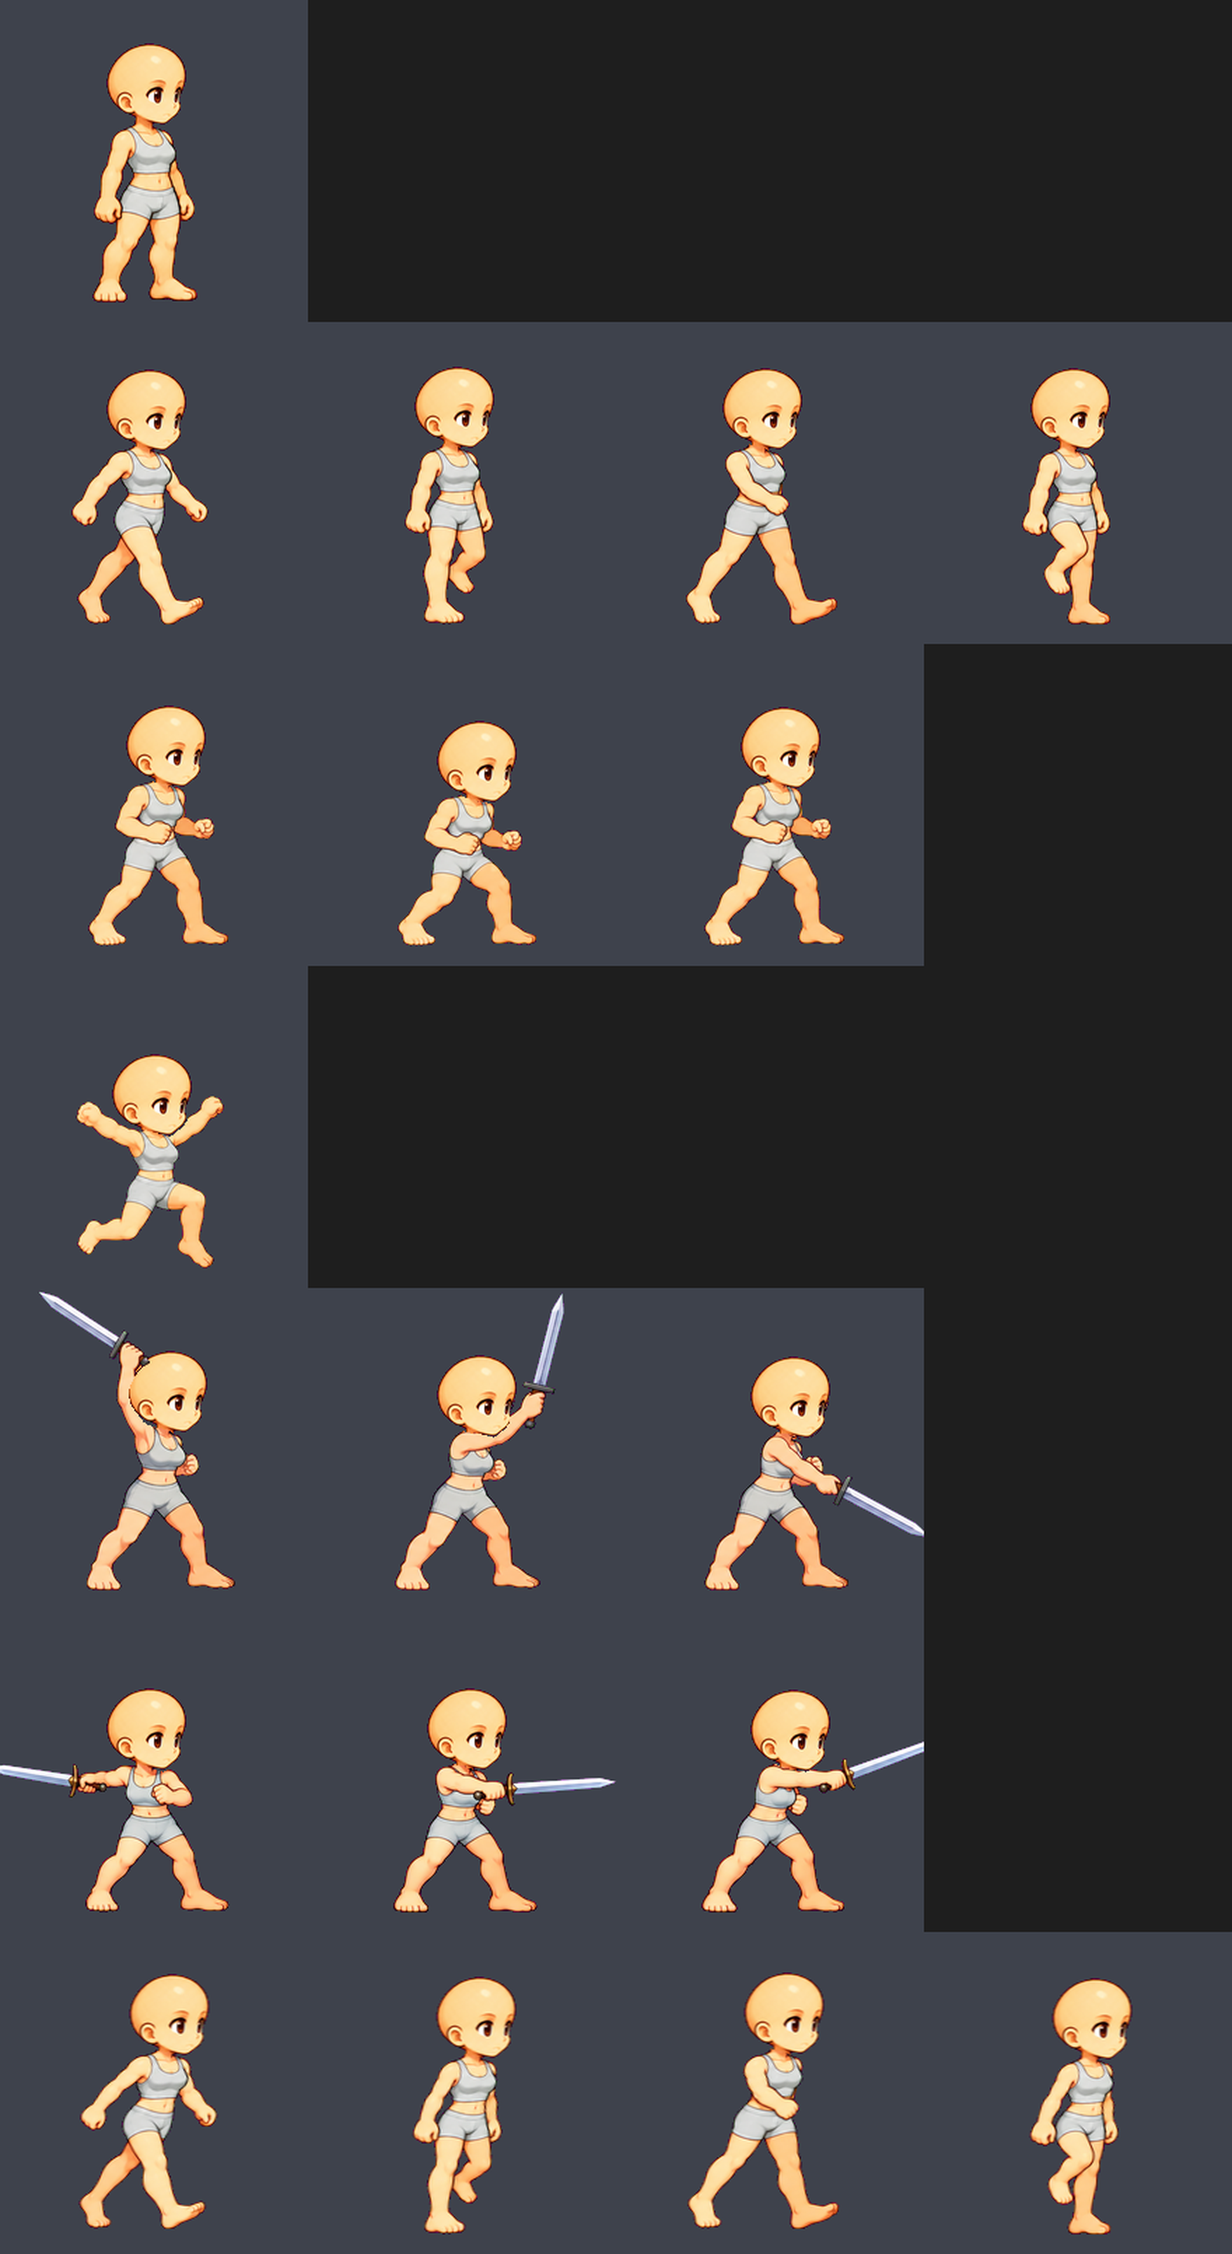
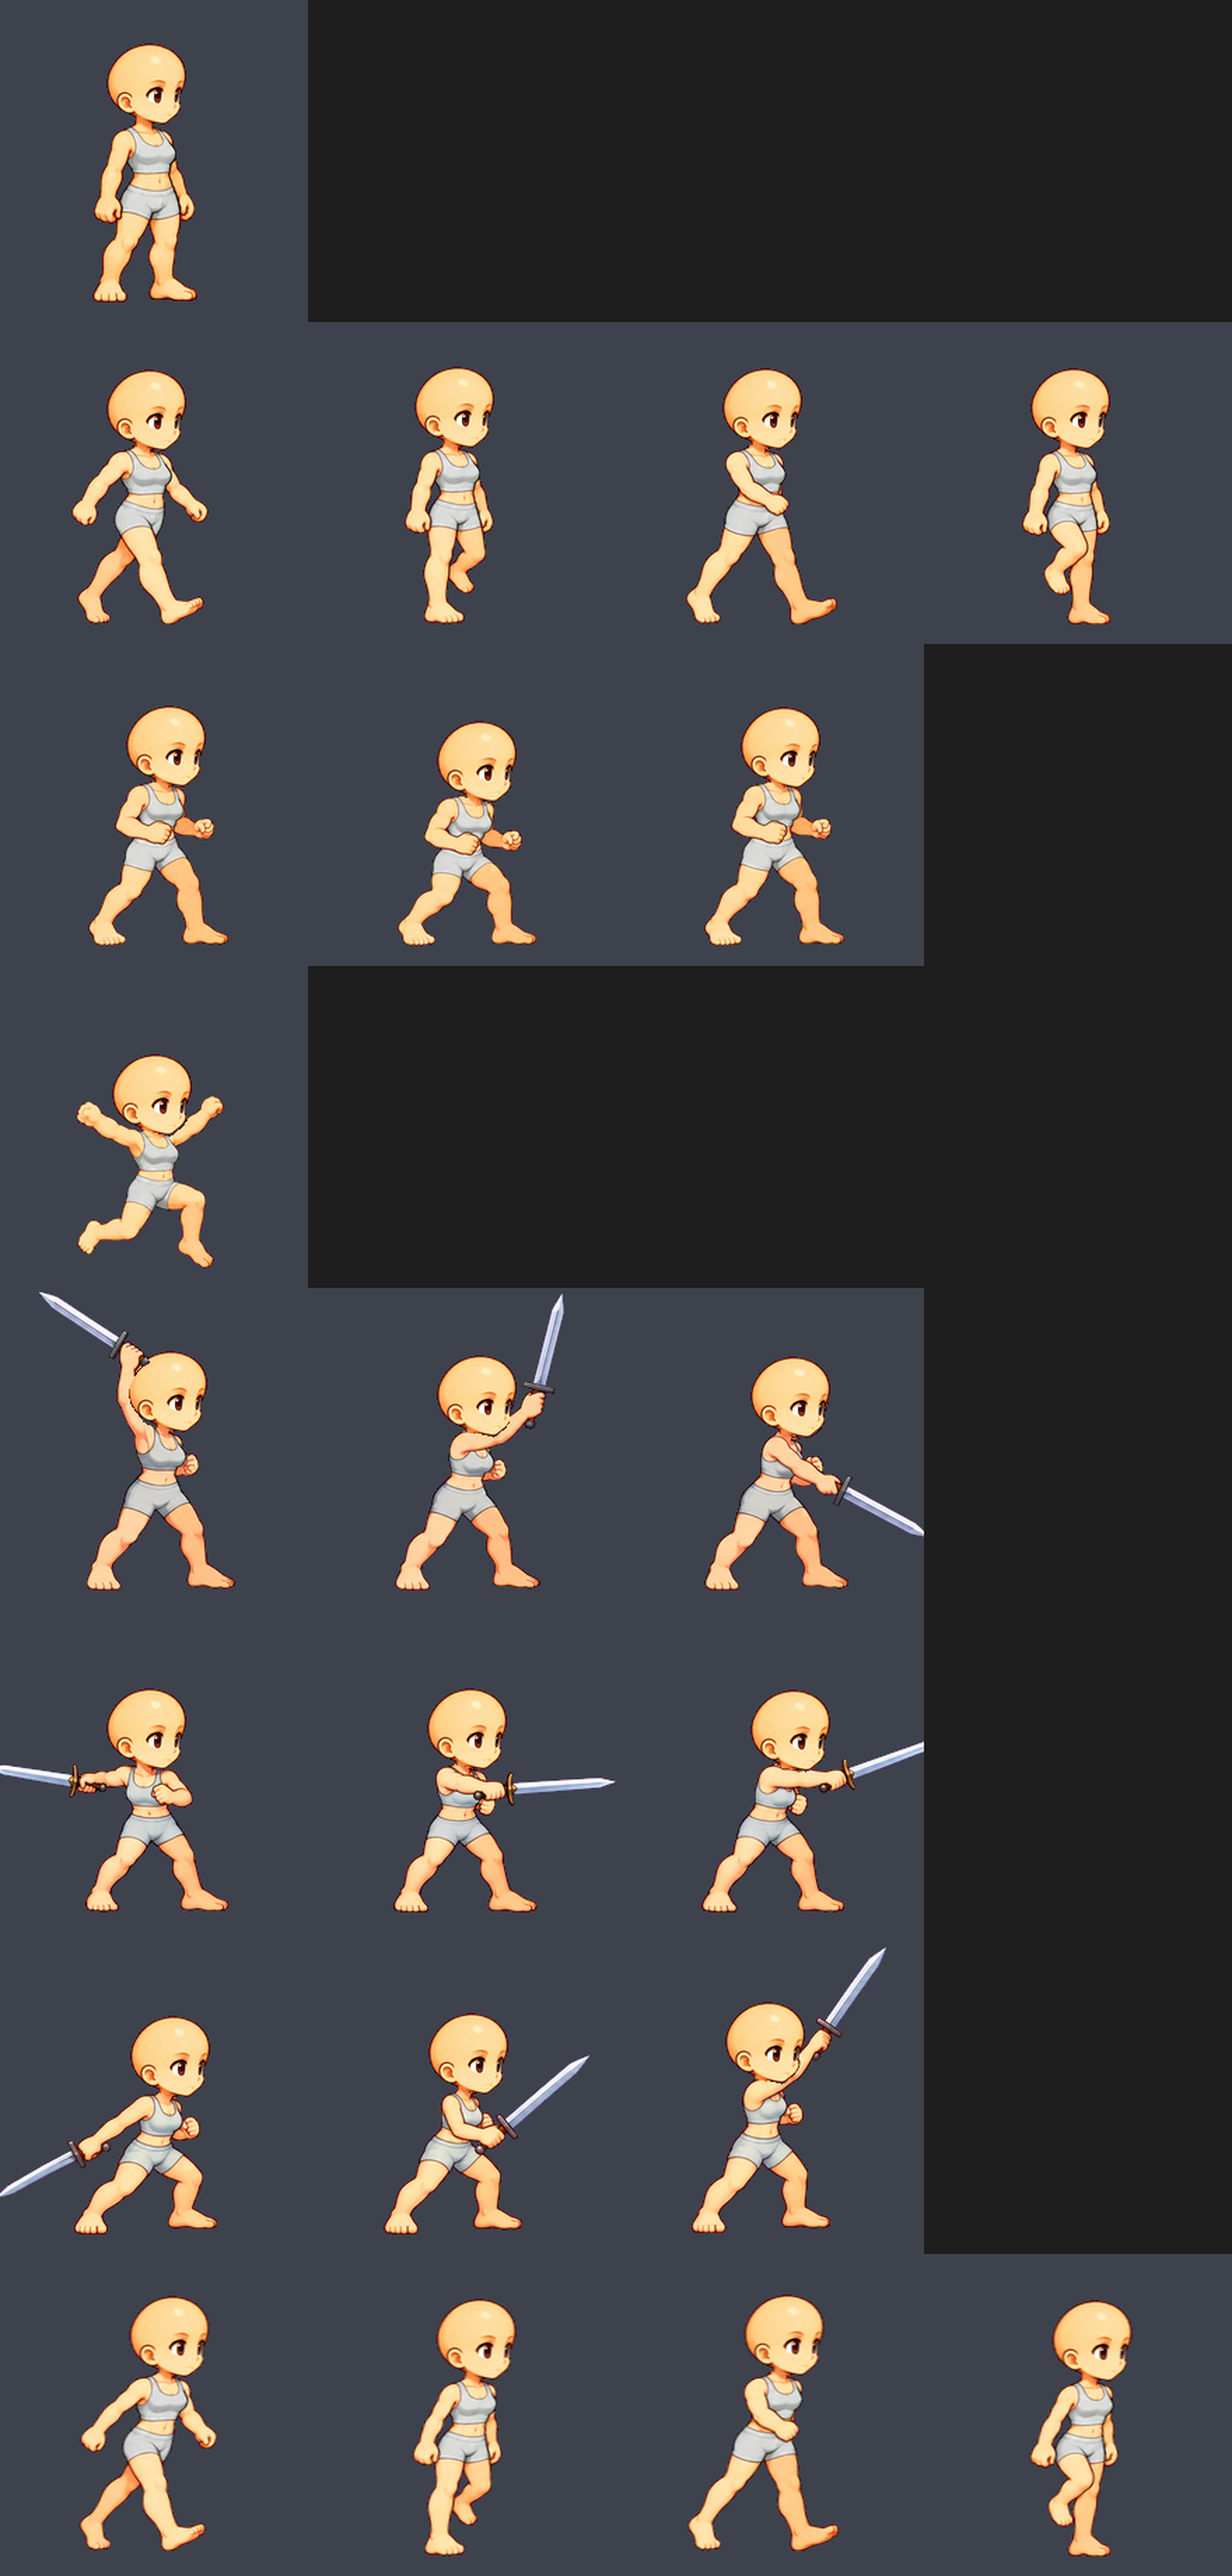
Base character sword attack 3 of 3 (rising diagonal swing); combat stance when hit and after a swing
- One GPT drawing (man top row, woman bottom row), 3 frames: low wind-up, rising, high follow-through.
  The basic attack now picks one of the three swings at random each time (the same on every screen).
- MapleStory: getting hit and the moment after a swing show the combat stance (no standing flash).

Claude-Session: https://claude.ai/code/session_019q8CMrxghbNzj8w42KsHoP

diff --git a/src/game/Body.ts b/src/game/Body.ts
@@ -179,6 +179,7 @@ function nakedPose(cls: string, dir: Dir, g: 'male' | 'female', q: PoseQuery): P
     const c = baseLoop(q.state, q.speed); frame = Math.floor((q.t * c.fps) / 1000) % has[anim];
   } else if (q.k === 'loop' && q.state === 'alert' && has.alert) { anim = 'alert'; frame = Math.floor(q.t / 500) % has.alert; } // 0.5 s a frame (Maple)
   else if (q.k === 'jump' && q.phase !== 'land' && has.jump) anim = 'jump'; // Maple: one frame the whole time off the ground
+  else if ((q.k === 'recovery' || q.k === 'hurt') && has.alert) anim = 'alert'; // Maple: after a swing / when hit, the combat stance
   else if (q.k === 'skill' && q.id === 'warrior_basic' && has.swing1) { // a sword swing (Maple: one of the drawn ones at random)
     const sw = ['swing1', 'swing2', 'swing3'].filter((a) => has[a]);
     anim = sw[(q.seed ?? 0) % sw.length]; frame = q.elapsed < q.startup ? 0 : q.elapsed < q.startup + q.active * 0.5 ? 1 : 2; // wind-up, strike, follow-through
